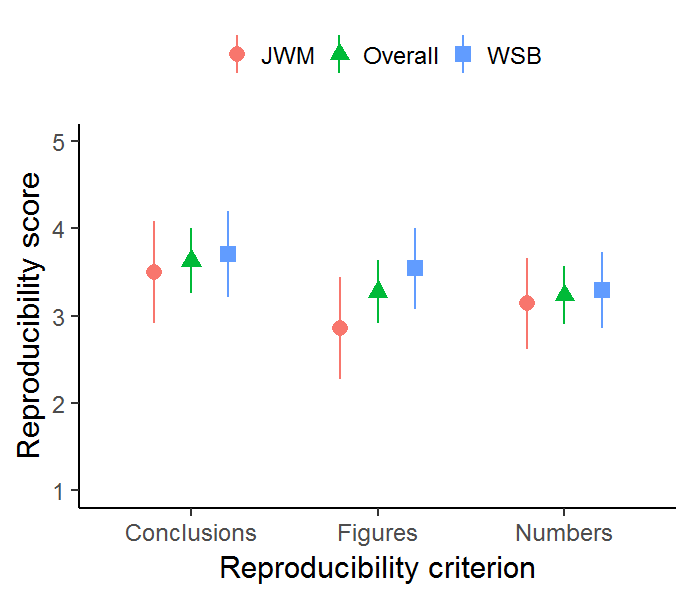
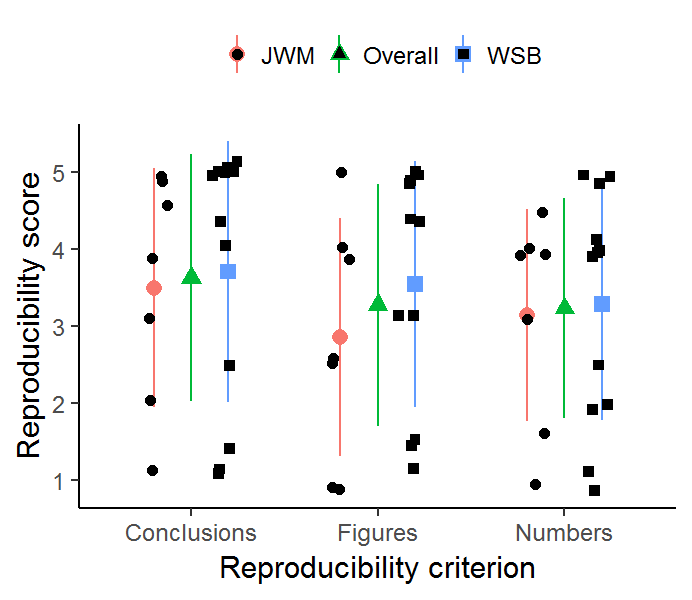
updated format for manuscript

diff --git a/html_reports/03_scores_by_journal_figure.html b/html_reports/03_scores_by_journal_figure.html
@@ -214,30 +214,9 @@ hr {
 <p>Load libraries</p>
 
 <pre><code class="r">library(ezknitr)
-</code></pre>
-
-<pre><code>## Warning: package &#39;ezknitr&#39; was built under R version 3.4.4
-</code></pre>
-
-<pre><code class="r">library(knitr)
-</code></pre>
-
-<pre><code>## Warning: package &#39;knitr&#39; was built under R version 3.4.4
-</code></pre>
-
-<pre><code class="r">library(devtools)
-</code></pre>
-
-<pre><code>## Warning: package &#39;devtools&#39; was built under R version 3.4.4
-</code></pre>
-
-<pre><code>## Warning: package &#39;usethis&#39; was built under R version 3.4.4
-</code></pre>
-
-<pre><code class="r">library(ggplot2)
-</code></pre>
-
-<pre><code>## Warning: package &#39;ggplot2&#39; was built under R version 3.4.4
+library(knitr)
+library(devtools)
+library(ggplot2)
 </code></pre>
 
 <p>Clear environment and set seed</p>
@@ -258,7 +237,7 @@ set.seed(8675)
 <h2>Empty dataset to fill in for plotting</h2>
 
 <pre><code class="r">plottingdata &lt;- as.data.frame(matrix(NA, nrow = 9, ncol = 6))
-colnames(plottingdata) &lt;- c(&quot;Score&quot;, &quot;SE&quot;, &quot;upper&quot;, &quot;lower&quot;, 
+colnames(plottingdata) &lt;- c(&quot;Score&quot;, &quot;SD&quot;, &quot;upper&quot;, &quot;lower&quot;, 
                             &quot;Category&quot;, &quot;journal&quot;)
 </code></pre>
 
@@ -268,9 +247,8 @@ colnames(plottingdata) &lt;- c(&quot;Score&quot;, &quot;SE&quot;, &quot;upper&qu
 
 <pre><code class="r">plottingdata$Score[1] &lt;- 
   na.exclude(mean(averages$graphsReproduced[averages$journal==&quot;JWM&quot;]))
-plottingdata$SE[1] &lt;- 
-  sd(na.exclude(averages$graphsReproduced[averages$journal==&quot;JWM&quot;]))/
-  sqrt(na.exclude(length(averages$graphsReproduced[averages$journal==&quot;JWM&quot;])))
+plottingdata$SD[1] &lt;- 
+  sd(na.exclude(averages$graphsReproduced[averages$journal==&quot;JWM&quot;]))
 plottingdata$Category[1] &lt;- &quot;Figures&quot;
 plottingdata$journal[1] &lt;- &quot;JWM&quot;
 </code></pre>
@@ -279,9 +257,8 @@ plottingdata$journal[1] &lt;- &quot;JWM&quot;
 
 <pre><code class="r">plottingdata$Score[2] &lt;- 
   mean(na.exclude(averages$graphsReproduced[averages$journal==&quot;WSB&quot;]))
-plottingdata$SE[2] &lt;- 
-  sd(na.exclude(averages$graphsReproduced[averages$journal==&quot;WSB&quot;]))/
-  sqrt(na.exclude(length(averages$graphsReproduced[averages$journal==&quot;WSB&quot;])))
+plottingdata$SD[2] &lt;- 
+  sd(na.exclude(averages$graphsReproduced[averages$journal==&quot;WSB&quot;]))
 plottingdata$Category[2] &lt;- &quot;Figures&quot;
 plottingdata$journal[2] &lt;- &quot;WSB&quot;
 </code></pre>
@@ -289,8 +266,7 @@ plottingdata$journal[2] &lt;- &quot;WSB&quot;
 <p>Overall</p>
 
 <pre><code class="r">plottingdata$Score[3] &lt;- mean(na.exclude(averages$graphsReproduced))
-plottingdata$SE[3] &lt;- sd(na.exclude(averages$graphsReproduced))/
-  sqrt(na.exclude(length(averages$graphsReproduced)))
+plottingdata$SD[3] &lt;- sd(na.exclude(averages$graphsReproduced))
 plottingdata$Category[3] &lt;- &quot;Figures&quot;
 plottingdata$journal[3] &lt;- &quot;Overall&quot;
 </code></pre>
@@ -301,9 +277,8 @@ plottingdata$journal[3] &lt;- &quot;Overall&quot;
 
 <pre><code class="r">plottingdata$Score[4] &lt;- 
   mean(na.exclude(averages$numbersReproduced[averages$journal==&quot;JWM&quot;]))
-plottingdata$SE[4] &lt;- 
-  sd(na.exclude(averages$numbersReproduced[averages$journal==&quot;JWM&quot;]))/
-  sqrt(na.exclude(length(averages$numbersReproduced[averages$journal==&quot;JWM&quot;])))
+plottingdata$SD[4] &lt;- 
+  sd(na.exclude(averages$numbersReproduced[averages$journal==&quot;JWM&quot;]))
 plottingdata$Category[4] &lt;- &quot;Numbers&quot;
 plottingdata$journal[4] &lt;- &quot;JWM&quot;
 </code></pre>
@@ -312,9 +287,8 @@ plottingdata$journal[4] &lt;- &quot;JWM&quot;
 
 <pre><code class="r">plottingdata$Score[5] &lt;- 
   mean(na.exclude(averages$numbersReproduced[averages$journal==&quot;WSB&quot;]))
-plottingdata$SE[5] &lt;- 
-  sd(na.exclude(averages$numbersReproduced[averages$journal==&quot;WSB&quot;]))/
-  sqrt(na.exclude(length(averages$numbersReproduced[averages$journal==&quot;WSB&quot;])))
+plottingdata$SD[5] &lt;- 
+  sd(na.exclude(averages$numbersReproduced[averages$journal==&quot;WSB&quot;]))
 plottingdata$Category[5] &lt;- &quot;Numbers&quot;
 plottingdata$journal[5] &lt;- &quot;WSB&quot;
 </code></pre>
@@ -322,8 +296,7 @@ plottingdata$journal[5] &lt;- &quot;WSB&quot;
 <p>Overall</p>
 
 <pre><code class="r">plottingdata$Score[6] &lt;- mean(na.exclude(averages$numbersReproduced))
-plottingdata$SE[6] &lt;- sd(na.exclude(averages$numbersReproduced))/
-  sqrt(na.exclude(length(averages$numbersReproduced)))
+plottingdata$SD[6] &lt;- sd(na.exclude(averages$numbersReproduced))
 plottingdata$Category[6] &lt;- &quot;Numbers&quot;
 plottingdata$journal[6] &lt;- &quot;Overall&quot;
 </code></pre>
@@ -334,9 +307,8 @@ plottingdata$journal[6] &lt;- &quot;Overall&quot;
 
 <pre><code class="r">plottingdata$Score[7] &lt;- 
   mean(na.exclude(averages$conclusionsReproduced[averages$journal==&quot;JWM&quot;]))
-plottingdata$SE[7] &lt;- 
-  sd(na.exclude(averages$conclusionsReproduced[averages$journal==&quot;JWM&quot;]))/
-  sqrt(na.exclude(length(averages$conclusionsReproduced[averages$journal==&quot;JWM&quot;])))
+plottingdata$SD[7] &lt;- 
+  sd(na.exclude(averages$conclusionsReproduced[averages$journal==&quot;JWM&quot;]))
 plottingdata$Category[7] &lt;- &quot;Conclusions&quot;
 plottingdata$journal[7] &lt;- &quot;JWM&quot;
 </code></pre>
@@ -345,9 +317,8 @@ plottingdata$journal[7] &lt;- &quot;JWM&quot;
 
 <pre><code class="r">plottingdata$Score[8] &lt;- 
   mean(na.exclude(averages$conclusionsReproduced[averages$journal==&quot;WSB&quot;]))
-plottingdata$SE[8] &lt;- 
-  sd(na.exclude(averages$conclusionsReproduced[averages$journal==&quot;WSB&quot;]))/
-  sqrt(na.exclude(length(averages$conclusionsReproduced[averages$journal==&quot;WSB&quot;])))
+plottingdata$SD[8] &lt;- 
+  sd(na.exclude(averages$conclusionsReproduced[averages$journal==&quot;WSB&quot;]))
 plottingdata$Category[8] &lt;- &quot;Conclusions&quot;
 plottingdata$journal[8] &lt;- &quot;WSB&quot;
 </code></pre>
@@ -355,33 +326,55 @@ plottingdata$journal[8] &lt;- &quot;WSB&quot;
 <p>Overall</p>
 
 <pre><code class="r">plottingdata$Score[9] &lt;- mean(na.exclude(averages$conclusionsReproduced))
-plottingdata$SE[9] &lt;- sd(na.exclude(averages$conclusionsReproduced))/
-  sqrt(na.exclude(length(averages$conclusionsReproduced)))
+plottingdata$SD[9] &lt;- sd(na.exclude(averages$conclusionsReproduced))
 plottingdata$Category[9] &lt;- &quot;Conclusions&quot;
 plottingdata$journal[9] &lt;- &quot;Overall&quot;
 </code></pre>
 
 <h3>Calculate lower and upper limits for all categories</h3>
 
-<pre><code class="r">plottingdata$upper &lt;- plottingdata$Score + plottingdata$SE
-plottingdata$lower &lt;- plottingdata$Score - plottingdata$SE
+<pre><code class="r">plottingdata$upper &lt;- plottingdata$Score + plottingdata$SD
+plottingdata$lower &lt;- plottingdata$Score - plottingdata$SD
+</code></pre>
+
+<p>Compile raw data in long format</p>
+
+<pre><code class="r">testdata1 &lt;- averages[,c(&quot;studyID&quot;, &quot;graphsReproduced&quot;, &quot;journal&quot;)]
+testdata2 &lt;- averages[,c(&quot;studyID&quot;, &quot;numbersReproduced&quot;, &quot;journal&quot;)]
+testdata3 &lt;- averages[,c(&quot;studyID&quot;, &quot;conclusionsReproduced&quot;, &quot;journal&quot;)]
+colnames(testdata1) &lt;- 
+  colnames(testdata2) &lt;- 
+  colnames(testdata3) &lt;- c(&quot;studyID&quot;, &quot;Score&quot;, &quot;journal&quot;)
+testdata1$Category &lt;- &quot;Figures&quot;
+testdata2$Category &lt;- &quot;Numbers&quot;
+testdata3$Category &lt;- &quot;Conclusions&quot;
+plottingdata.long &lt;- rbind(testdata1, testdata2, testdata3)
 </code></pre>
 
 <hr/>
 
 <h2>Create figure</h2>
 
-<pre><code class="r">ggplot(data = plottingdata, aes(x = Category, y = Score, colour = journal))+
-  geom_pointrange(aes(ymin = lower, ymax = upper, shape = journal), 
-                 position = position_dodge(width = 0.6))+
-  ylim(1,5)+
+<pre><code class="r">ggplot(data = plottingdata.long, aes(x = Category, y = Score, 
+                                     colour = journal, shape = journal))+
+  geom_pointrange(data = plottingdata,
+                  aes(ymin = lower, ymax = upper, shape = journal), 
+                  position = position_dodge(width = 0.6))+
+  geom_jitter(position = position_jitterdodge(jitter.width = 0.15, 
+                                              jitter.height = 0.15, 
+                                              dodge.width = 0.7), 
+              color = &quot;black&quot;)+
+  #ylim(1,5)+
   theme_classic()+
   theme(legend.position = &quot;top&quot;, legend.title = element_blank())+
   xlab(&quot;Reproducibility criterion&quot;)+
   ylab(&quot;Reproducibility score&quot;)
 </code></pre>
 
[1 lines of base64/hex data omitted]
+<pre><code>## Warning: Removed 1 rows containing missing values (geom_point).
+</code></pre>
+
[1 lines of base64/hex data omitted]
 
 <hr/>
 
@@ -400,7 +393,7 @@ plottingdata$lower &lt;- plottingdata$Score - plottingdata$SE
 ##  collate  English_United States.1252  
 ##  ctype    English_United States.1252  
 ##  tz       America/Chicago             
-##  date     2019-03-26                  
+##  date     2019-04-09                  
 ## 
 ## - Packages --------------------------------------------------------------
 ##  package     * version date       lib source        
@@ -427,7 +420,9 @@ plottingdata$lower &lt;- plottingdata$Score - plottingdata$SE
 ##  labeling      0.3     2014-08-23 [1] CRAN (R 3.4.1)
 ##  lazyeval      0.2.1   2017-10-29 [1] CRAN (R 3.4.4)
 ##  magrittr      1.5     2014-11-22 [1] CRAN (R 3.4.3)
+##  markdown      0.9     2018-12-07 [1] CRAN (R 3.4.4)
 ##  memoise       1.1.0   2017-04-21 [1] CRAN (R 3.4.4)
+##  mime          0.6     2018-10-05 [1] CRAN (R 3.4.4)
 ##  munsell       0.5.0   2018-06-12 [1] CRAN (R 3.4.4)
 ##  pillar        1.3.0   2018-07-14 [1] CRAN (R 3.4.4)
 ##  pkgbuild      1.0.2   2018-10-16 [1] CRAN (R 3.4.4)
@@ -446,6 +441,7 @@ plottingdata$lower &lt;- plottingdata$Score - plottingdata$SE
 ##  remotes       2.0.2   2018-10-30 [1] CRAN (R 3.4.4)
 ##  rlang         0.3.0.1 2018-10-25 [1] CRAN (R 3.4.4)
 ##  rprojroot     1.3-2   2018-01-03 [1] CRAN (R 3.4.4)
+##  rstudioapi    0.8     2018-10-02 [1] CRAN (R 3.4.4)
 ##  scales        1.0.0   2018-08-09 [1] CRAN (R 3.4.4)
 ##  sessioninfo   1.1.1   2018-11-05 [1] CRAN (R 3.4.4)
 ##  stringi       1.2.4   2018-07-20 [1] CRAN (R 3.4.4)
